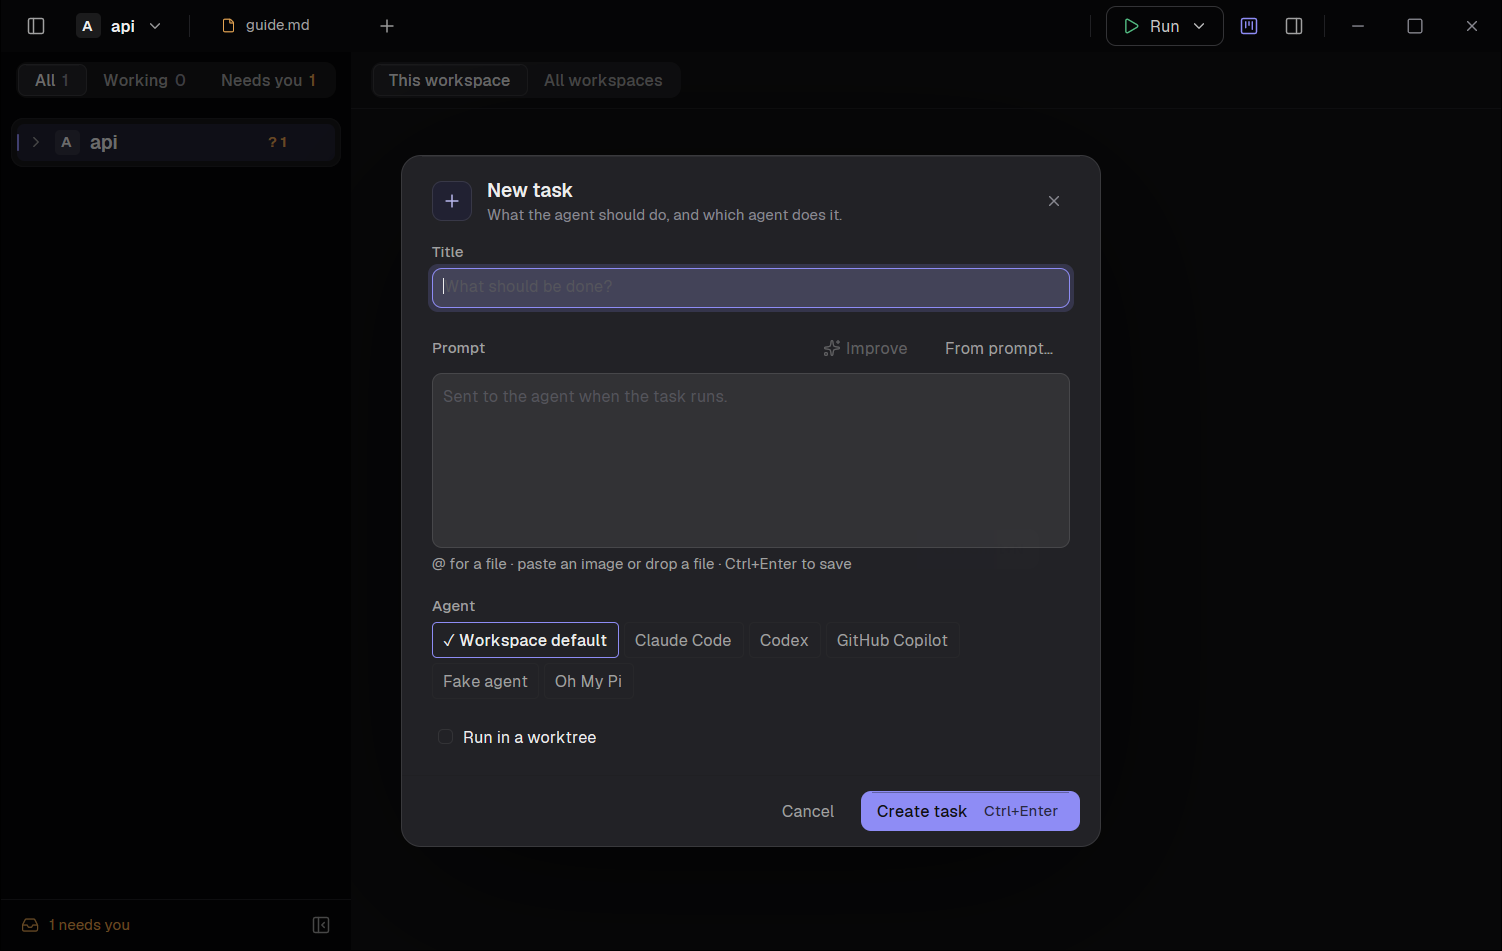
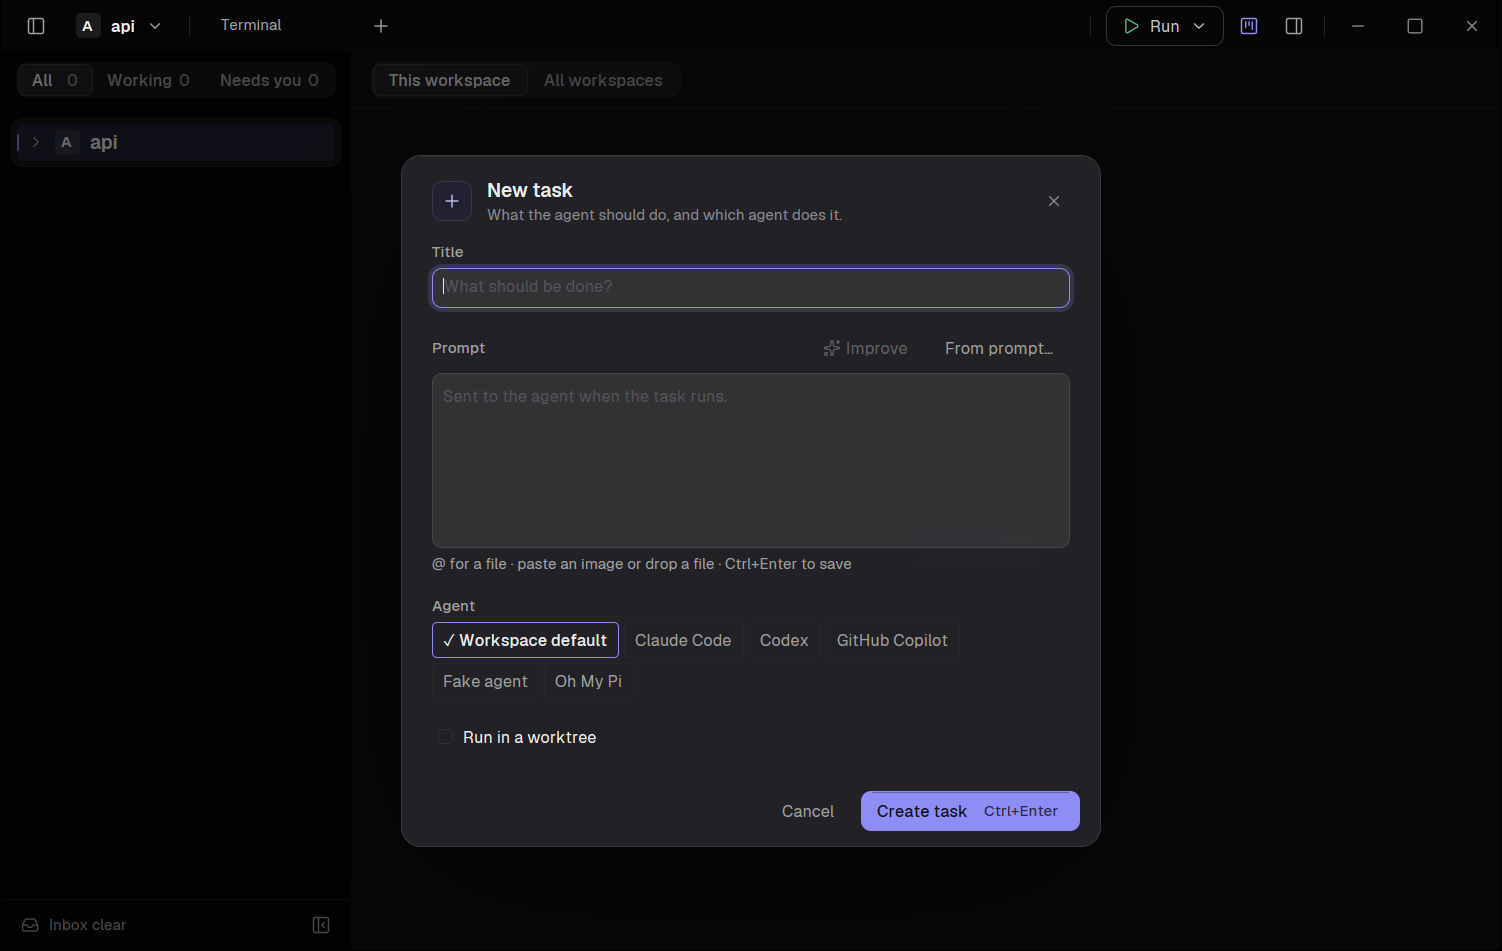
docs: retake Tern polish dialog screenshots
- New task with the Title field focused in all four themes: the ring sits outside the field
- one confirm dialog with a long file name that wraps

diff --git a/docs/HUMAN_CHECKS.md b/docs/HUMAN_CHECKS.md
@@ -23,7 +23,7 @@ The loop keeps going; report problems by adding a task line to PROGRESS.md or wr
 
 ### To verify - 2026-11-26 Tern polish (ADR 0117, spec docs/superpowers/specs/2026-11-25-tern-polish-design.md)
 
-Screenshots: `docs/screenshots/tern-polish-<view>-<mkrew-dark|mkrew-light|tern-dark|tern-light>.png` (split, files, menu, dialog, settings, git) and `tern-polish-split-font18-mkrew-dark.png`, taken in the smoke sandbox with a fake agent. Everything the sandbox cannot show is below; check each item in dark and light.
+Screenshots: `docs/screenshots/tern-polish-<view>-<mkrew-dark|mkrew-light|tern-dark|tern-light>.png` (split, files, menu, dialog, settings, git; the dialog shots have the Title field focused, ring outside the field), `tern-polish-split-font18-mkrew-dark.png` and `tern-polish-confirm-mkrew-dark.png` (a long file name wraps in the title), taken in the smoke sandbox with a fake agent. Everything the sandbox cannot show is below; check each item in dark and light.
 
 **Seen in the smoke screenshots (look again on your own screen):**
 
